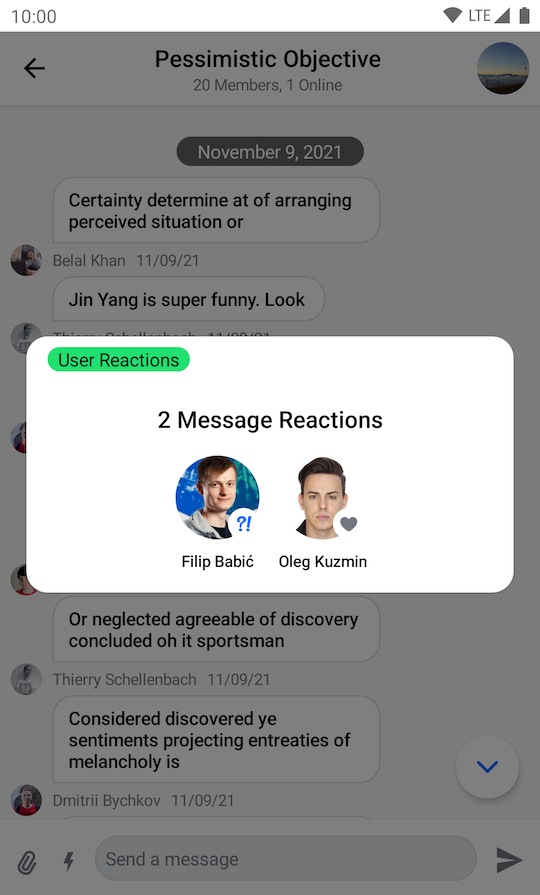
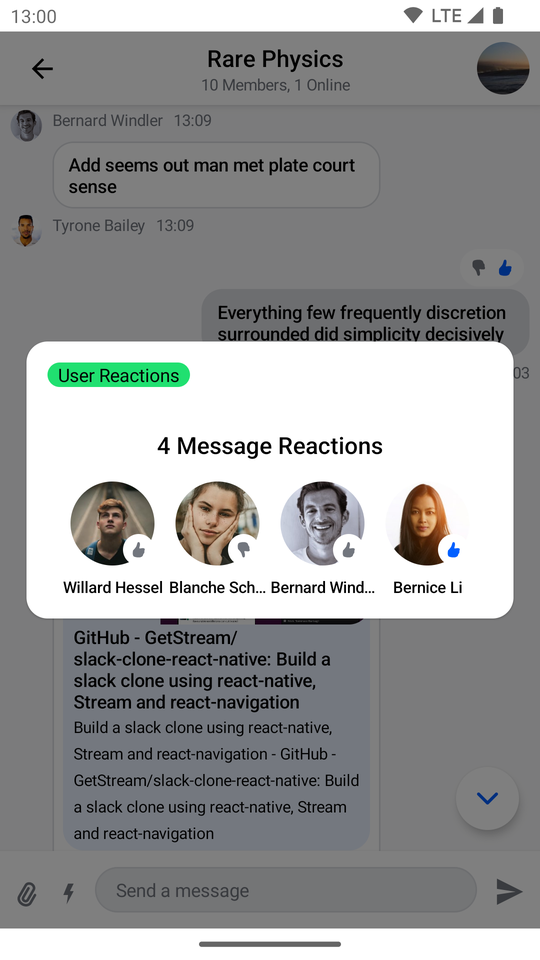
[4532] Update `SelectedReactionsMenu` documentation (#4576)
* [4532] Update the intro section for both V5 and V6 docs of `SelectedReactionsMenu`

* [4532] Update the "Handling Actions" section for both V5 and V6 docs of `SelectedReactionsMenu`

* [4532] Update code snippets

* [4532] Update screenshots

* [4532] Update PR according to PR review comments

diff --git a/stream-chat-android-docs/src/main/kotlin/io/getstream/chat/docs/kotlin/compose/messages/SelectedReactionsMenu.kt b/stream-chat-android-docs/src/main/kotlin/io/getstream/chat/docs/kotlin/compose/messages/SelectedReactionsMenu.kt
@@ -190,7 +190,7 @@ private object SelectedReactionsMenuCustomizationSnippet {
                                 headerContent = {
                                     Text(
                                         modifier = Modifier
-                                            .padding(horizontal = 16.dp, vertical = 8.dp)
+                                            .padding(16.dp)
                                             .background(
                                                 shape = ChatTheme.shapes.avatar,
                                                 color = ChatTheme.colors.infoAccent
